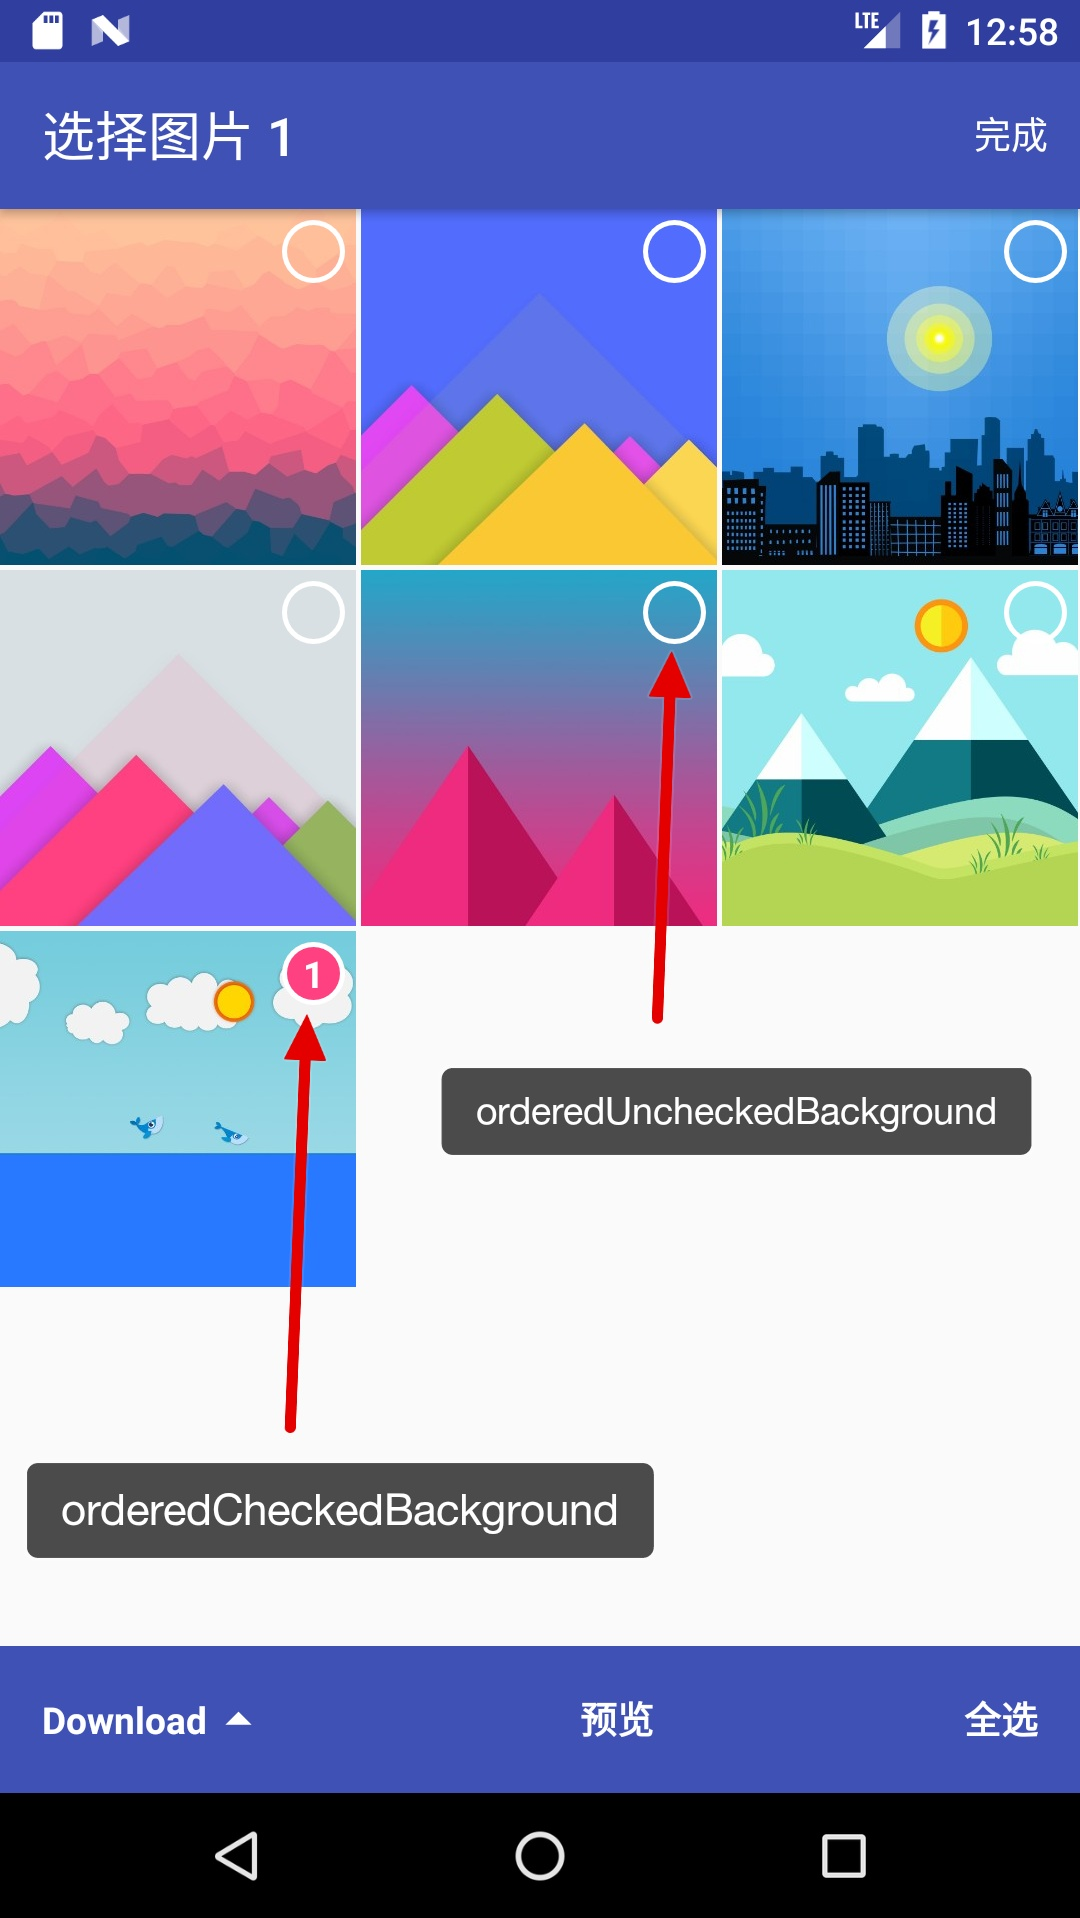
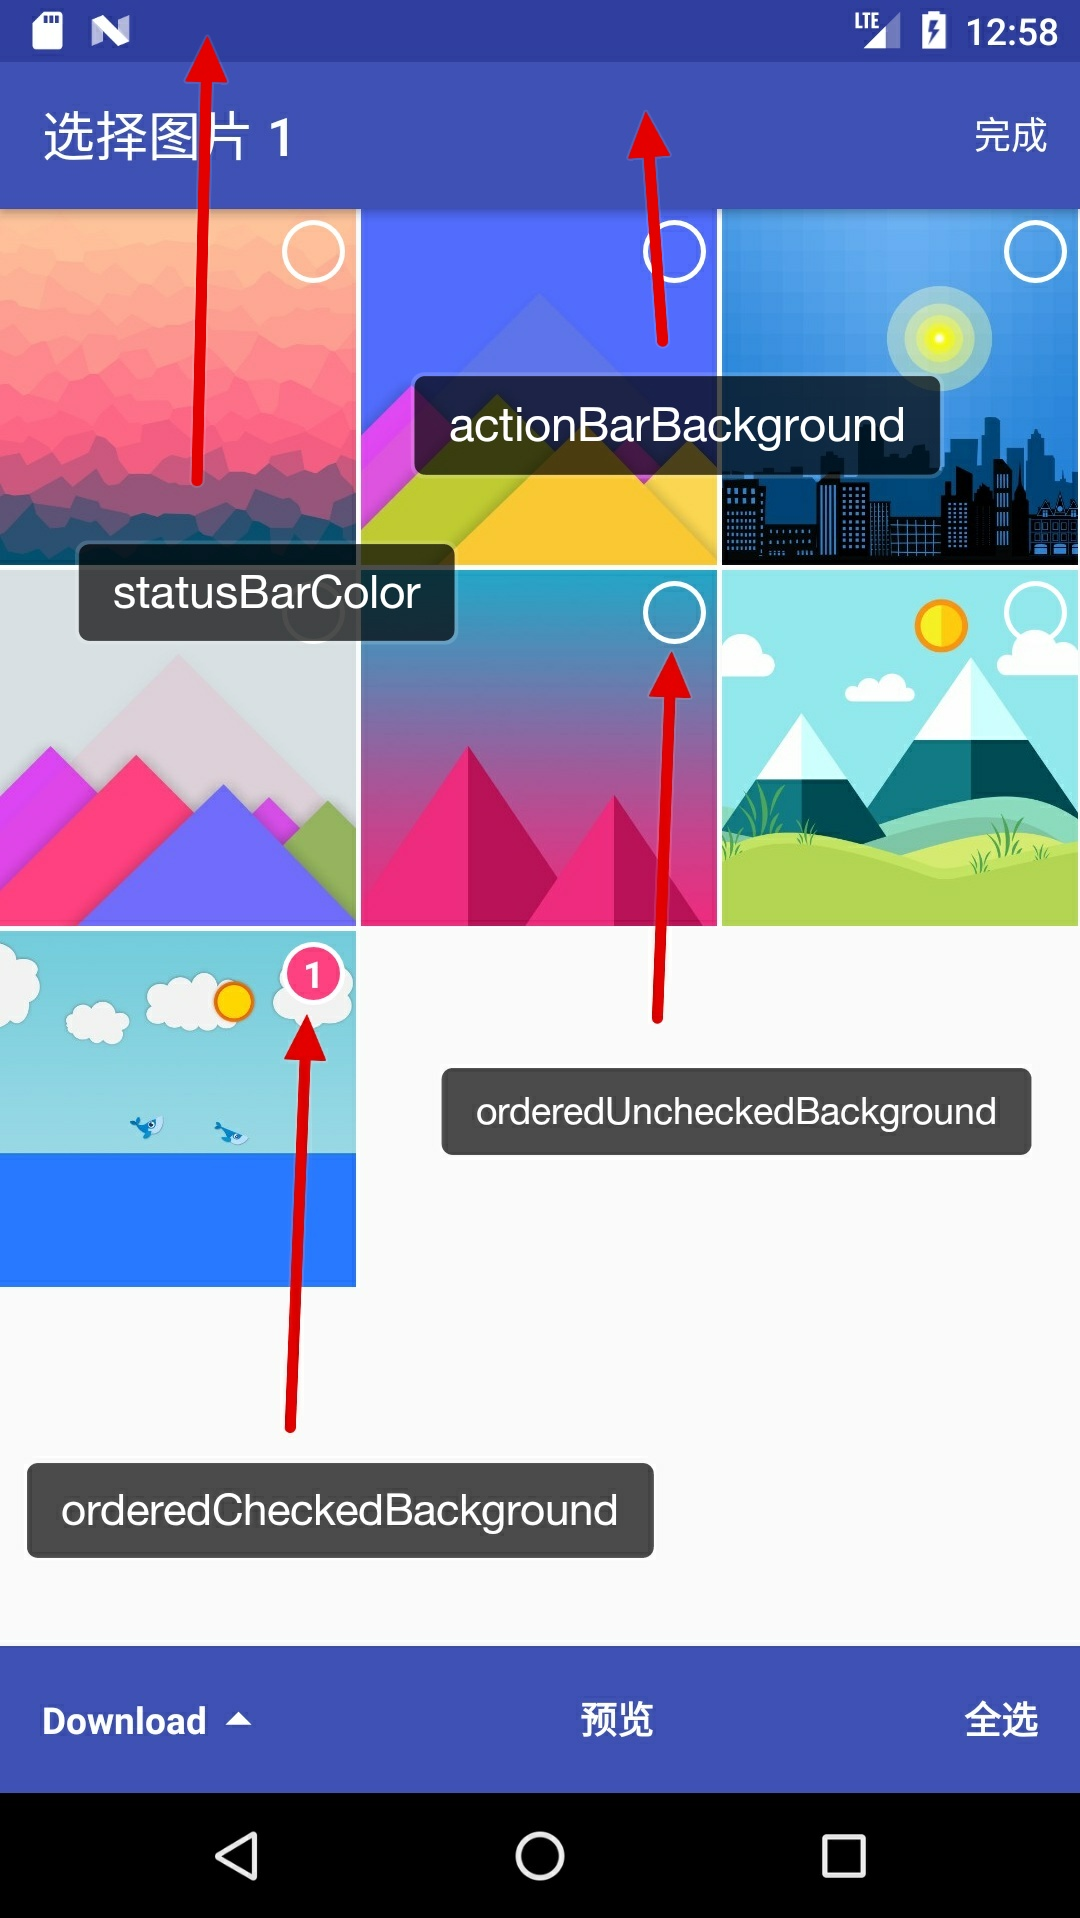
Update README.md

Changed region(s): [[0.0611, 0.0615, 0.8861, 0.3384], [0.1528, 0.0, 0.2139, 0.2461]]

diff --git a/README.md b/README.md
@@ -210,6 +210,8 @@ PhotoPicker.themeConfig = ThemeConfig()
     .checkboxOutlineColor(ContextCompat.getColor(this@App, R.color.colorAccent))
     .orderedCheckedBackground(R.drawable.ic_badge_checked_24dp)
     .orderedUncheckedBackground(R.drawable.ic_badge_unchecked_24dp)
+    .actionBarBackground(ContextCompat.getColor(this@App, R.color.colorPrimary))
+    .statusBarColor(ContextCompat.getColor(this@App, R.color.colorPrimaryDark))
 // Java
 ThemeConfig themeConfig = new ThemeConfig()
     .radioCheckedColor(Color.RED)
